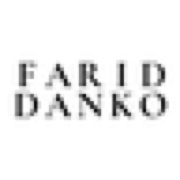
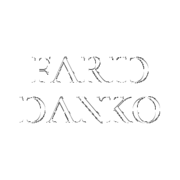
feat: nouvelle signature

Changed region(s): [[0.0556, 0.3056, 0.9444, 0.6944]]

diff --git a/app/[lang]/about/page.tsx b/app/[lang]/about/page.tsx
@@ -50,7 +50,7 @@ export default async function AboutPage({
 
             {/* Signature Section */}
             <div className="pt-10 md:pt-16 border-t border-border/40">
-              <div className="relative w-56 sm:w-64 md:w-80 h-28 sm:h-32 md:h-40 opacity-90 dark:invert mb-4">
+              <div className="relative w-56 sm:w-64 md:w-80 h-28 sm:h-32 md:h-40 opacity-90 dark:brightness-0 dark:invert mb-4">
                 <Image
                   src="/farid-signature.png"
                   alt="Farid Danko Signature"
